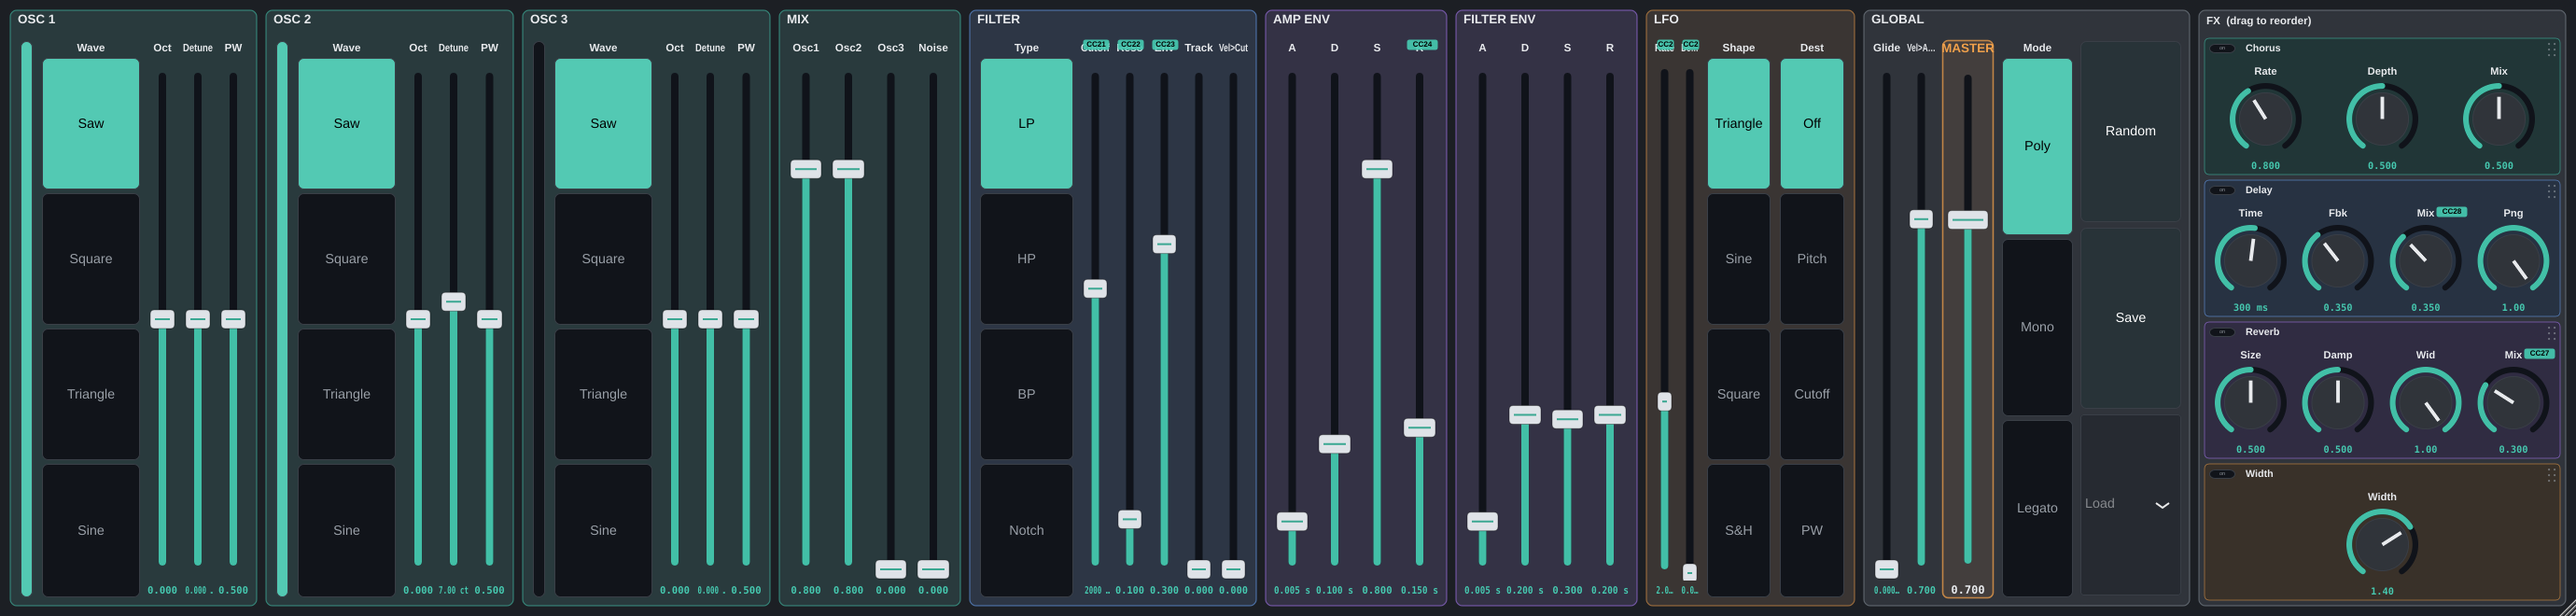
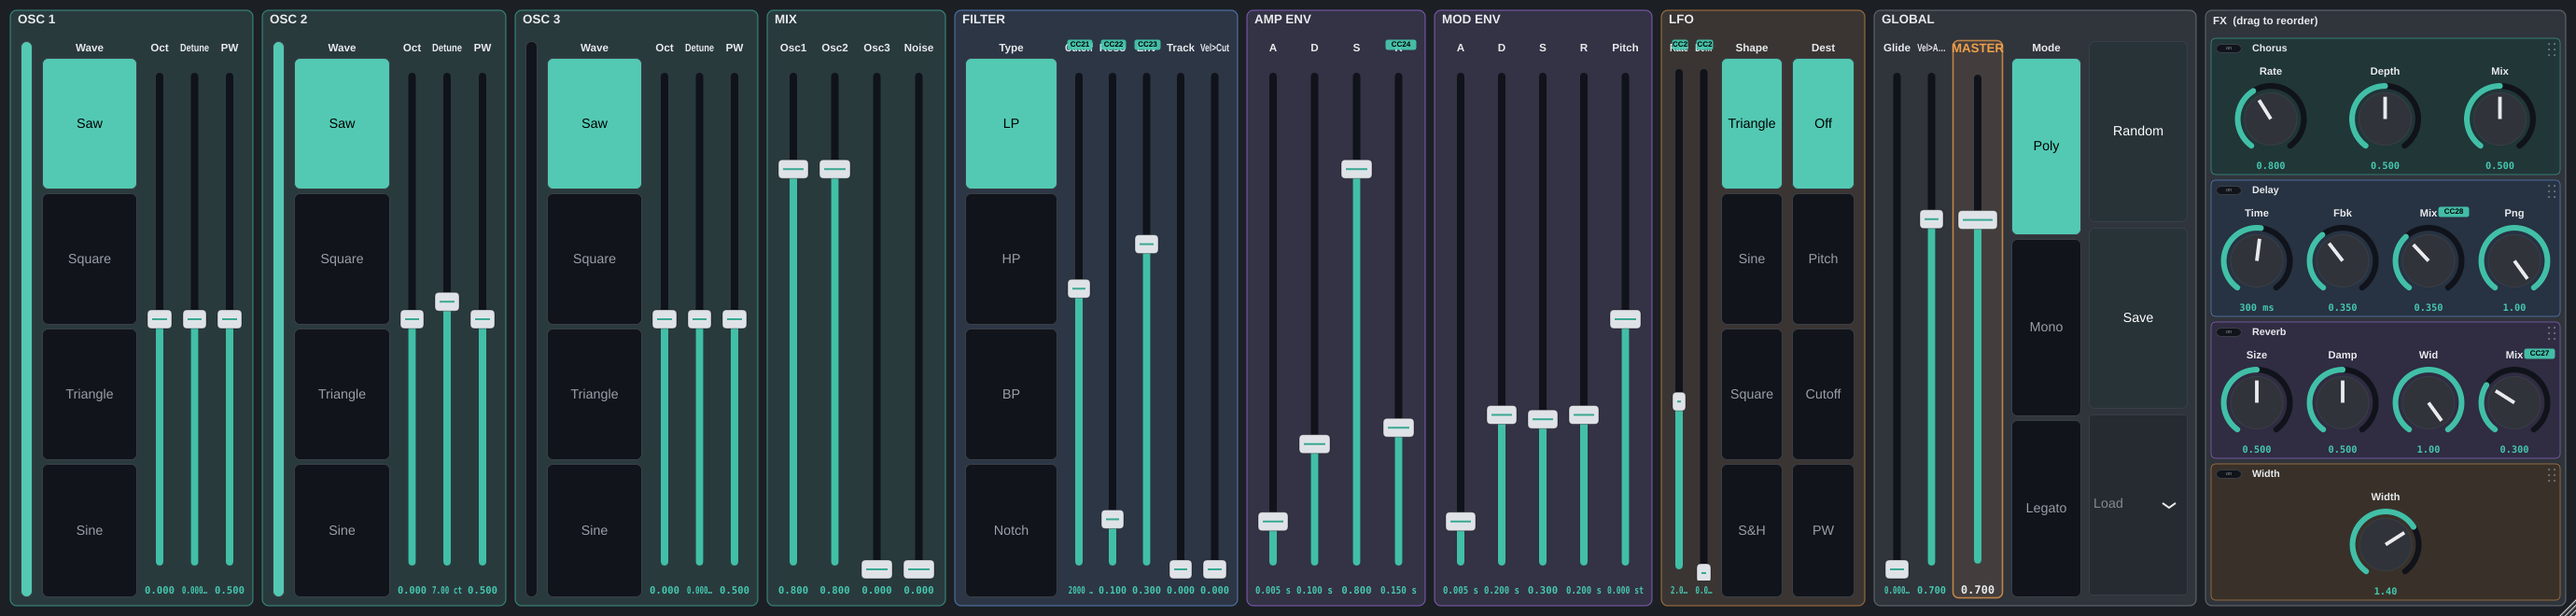
7A: mod-env -> pitch + drum presets
New fltenv_to_pitch parameter (bipolar, -48..+48 st, default 0): the filter/mod
envelope now drives per-voice pitch, summed into the same semitone domain as the LFO
pitch mod. Sampled at control rate (ADSREnvelope::getLevel at each render chunk, so
the env isn't advanced twice) — ~0.33 ms granularity, smooth for a kick's pitch drop.
Default 0 keeps the engine golden bit-identical. The filter-env UI bank is relabeled
MOD ENV with a new Pitch fader (screenshot regenerated).

Six drum presets in a new "Drums" category, all built on the pitch-env drop: Kick 808
(sine, +22 st over ~55 ms, long boom, dry), Kick Punchy (tighter), Snare (tone+noise
bandpass, +7 st, touch of reverb), Hat Closed (noise-only highpass, ~45 ms), Hat Open
(~400 ms), Tom (+7 st / ~80 ms). Recipes in README + presets.md.

Tests: [envpitch] (env held at +12 = exactly one octave / 880 Hz, decays to the note
pitch, default 0 inert -> golden-safe); [drums] (kick low descending fundamental +
percussive decay, closed hat highpassed + very short); factory count -> 22.

Gate: release 125/125 + pluginval s8; sanitizers ASan+LSan+UBSan + soak green.

diff --git a/tests/plugin/test_drums.cpp b/tests/plugin/test_drums.cpp
@@ -1,0 +1,102 @@
+// ============================================================================
+// 7A drum presets: character checks (load + sound + bounds are covered for ALL
+// presets by test_presets_factory; here we verify the DRUM character specifically).
+//   * Kick: percussive (decays to near-silence) with a low fundamental at the note
+//     an octave down — and env->pitch gives it a descending pitch (onset above tail).
+//   * Closed Hat: highpassed noise (energy concentrated in the highs), very short.
+// FFT/zero-cross helpers come from the DSP test util (on the plugin_tests include path).
+// ============================================================================
+#include <catch2/catch_test_macros.hpp>
+#include "PluginProcessor.h"
+#include "test_util.h"
+#include <vector>
+#include <cmath>
+
+namespace
+{
+    // Render one held note of a factory preset into a mono capture.
+    std::vector<float> renderPreset (VASynthProcessor& p, const juce::String& preset, int note, double seconds)
+    {
+        p.loadFactoryPreset (preset);
+        const int total = (int) (48000.0 * seconds);
+        std::vector<float> mono; mono.reserve ((size_t) total);
+        juce::AudioBuffer<float> buf (2, 256);
+        int done = 0;
+        while (done < total)
+        {
+            const int n = std::min (256, total - done);
+            buf.setSize (2, n, false, false, true); buf.clear();
+            juce::MidiBuffer midi;
+            if (done == 0) midi.addEvent (juce::MidiMessage::noteOn (1, note, 1.0f), 0);
+            p.processBlock (buf, midi);
+            const float* L = buf.getReadPointer (0);
+            for (int i = 0; i < n; ++i) mono.push_back (L[i]);
+            done += n;
+        }
+        return mono;
+    }
+
+    double rmsRange (const std::vector<float>& x, double sr, double t0, double t1)
+    {
+        const int a = (int) (sr * t0), b = std::min ((int) (sr * t1), (int) x.size());
+        double acc = 0.0; int n = 0;
+        for (int i = a; i < b; ++i) { acc += double (x[(size_t) i]) * x[(size_t) i]; ++n; }
+        return n ? std::sqrt (acc / n) : 0.0;
+    }
+}
+
+TEST_CASE ("Kick preset: low descending fundamental, percussive decay", "[plugin][7a][drums][kick]")
+{
+    juce::ScopedJuceInitialiser_GUI juceInit;
+    VASynthProcessor p; p.prepareToPlay (48000.0, 256);
+
+    auto out = renderPreset (p, "Kick 808", 48, 0.5);   // C3; osc octave -1 -> ~C2 (65 Hz)
+    REQUIRE (tu::allFinite (out));
+
+    // Settled fundamental (after the pitch drop) is the low note (~65 Hz).
+    const double settled = tu::zeroCrossHz (out, int (48000 * 0.18), int (48000 * 0.25), 48000.0);
+    INFO ("kick settled fundamental = " << settled << " Hz");
+    REQUIRE (settled > 45.0);
+    REQUIRE (settled < 110.0);                          // clearly a low kick, not the raw note
+
+    // env->pitch: the onset carries clear energy ABOVE the settled fundamental (the
+    // pitch swept down from ~+22 st), while the settled tail is a pure low tone.
+    auto highBandEnergy = [&] (double t0)
+    {
+        const int start = (int) (48000 * t0);
+        std::vector<float> w (2048, 0.0f);
+        for (int i = 0; i < 2048 && start + i < (int) out.size(); ++i) w[(size_t) i] = out[(size_t) (start + i)];
+        auto mag = tu::magnitudeSpectrum (w);
+        const double binHz = 48000.0 / 2048.0;
+        double e = 0.0;
+        for (size_t k = 1; k < mag.size(); ++k) if (k * binHz > 130.0) e += mag[k] * mag[k];
+        return e;
+    };
+    REQUIRE (highBandEnergy (0.0) > highBandEnergy (0.2) * 5.0);   // pitch drop: onset highs >> tail
+
+    // Percussive: the tail is far quieter than the body (amp sustain 0).
+    REQUIRE (rmsRange (out, 48000, 0.0,  0.05) > rmsRange (out, 48000, 0.4, 0.5) * 8.0);
+}
+
+TEST_CASE ("Closed hat preset: highpassed noise, very short", "[plugin][7a][drums][hat]")
+{
+    juce::ScopedJuceInitialiser_GUI juceInit;
+    VASynthProcessor p; p.prepareToPlay (48000.0, 256);
+
+    auto out = renderPreset (p, "Hat Closed", 60, 0.3);
+    REQUIRE (tu::allFinite (out));
+
+    // Spectrum of the onset: energy must sit mostly in the highs (highpass @ ~8.5k).
+    std::vector<float> win (8192, 0.0f);
+    for (int i = 0; i < 8192 && i < (int) out.size(); ++i) win[(size_t) i] = out[(size_t) i];
+    auto mag = tu::magnitudeSpectrum (win);
+    const double binHz = 48000.0 / 8192.0;
+    double low = 0.0, high = 0.0;
+    for (size_t k = 1; k < mag.size(); ++k)
+        (k * binHz < 4000.0 ? low : high) += mag[k] * mag[k];
+    INFO ("hat low(<4k)=" << low << " high(>4k)=" << high);
+    REQUIRE (high > low * 4.0);                          // clearly highpassed
+
+    // Very short: essentially silent by 120 ms.
+    REQUIRE (rmsRange (out, 48000, 0.0, 0.03) > rmsRange (out, 48000, 0.12, 0.3) * 15.0);
+}

diff --git a/tests/dsp/test_engine.cpp b/tests/dsp/test_engine.cpp
@@ -145,6 +145,47 @@ TEST_CASE ("retriggering a held note does not click", "[engine][retrigger]")
     REQUIRE (atEv <= pre + 0.05f);                     // no phase-reset discontinuity
 }
 
+TEST_CASE ("mod env -> pitch: +12 st is an octave, decaying to note pitch", "[engine][7a][envpitch]")
+{
+    auto renderNote = [] (float envToPitch, float fltS, float fltD)
+    {
+        SynthEngine e; e.prepare (kSR);
+        VoiceParams p = sineParams();              // sine osc1, cutoff wide, filterEnvAmt 0
+        p.fltEnvToPitch = envToPitch;
+        p.fltA = 0.001f; p.fltD = fltD; p.fltS = fltS;                 // instant up
+        p.ampA = 0.001f; p.ampD = 0.5f; p.ampS = 0.9f; p.ampR = 0.1f;  // audible throughout
+        e.noteOn (69, 1.0f);                       // A4 = 440 Hz
+        std::vector<float> out (int (kSR * 1.5), 0.0f);
+        e.render (out.data(), (int) out.size(), p, 2.0f, 0, 0.0f, 0);
+        return out;
+    };
+
+    // (1) Env HELD at peak (sustain 1.0): +12 st is exactly one octave -> 880 Hz.
+    {
+        auto out = renderNote (12.0f, 1.0f, 0.001f);
+        const double hz = tu::zeroCrossHz (out, int (kSR * 0.05), int (kSR * 0.25), kSR);
+        INFO ("held +12 -> " << hz << " Hz");
+        REQUIRE (hz == Catch::Approx (880.0).margin (20.0));          // an octave up
+    }
+
+    // (2) Env DECAYS to 0: pitch starts high and settles at the note (440 Hz).
+    {
+        auto out = renderNote (12.0f, 0.0f, 0.12f);
+        const double early = tu::zeroCrossHz (out, int (kSR * 0.005), int (kSR * 0.02), kSR);
+        const double late  = tu::zeroCrossHz (out, int (kSR * 0.8),   int (kSR * 0.6),  kSR);
+        INFO ("decaying early=" << early << " late=" << late);
+        REQUIRE (early > 600.0);                                      // clearly pitched up at onset
+        REQUIRE (late  == Catch::Approx (440.0).margin (10.0));       // lands at note pitch
+    }
+
+    // (3) Default 0 is inert (golden-safe): stays at 440 the whole time.
+    {
+        auto out = renderNote (0.0f, 0.0f, 0.12f);
+        REQUIRE (tu::zeroCrossHz (out, int (kSR * 0.02), int (kSR * 0.4), kSR)
+                 == Catch::Approx (440.0).margin (6.0));
+    }
+}
+
 TEST_CASE ("voice-sum headroom trim scales with the voice cap (1/sqrt(N))", "[engine][bug4][headroom]")
 {
     // The engine applies a fixed 1/sqrt(maxVoices) trim to the summed output so a

diff --git a/Source/DSP/SynthVoice.h b/Source/DSP/SynthVoice.h
@@ -50,6 +50,7 @@ struct VoiceParams
     // envelopes
     float  ampA = 0.005f, ampD = 0.1f, ampS = 0.8f, ampR = 0.15f;
     float  fltA = 0.005f, fltD = 0.2f, fltS = 0.3f, fltR = 0.2f;
+    float  fltEnvToPitch = 0.0f;               // filter/mod env -> pitch, semitones (-48..+48)
 
     // modulation (already computed by engine from LFO + destination routing)
     float  pitchModSemis = 0.0f;               // LFO -> pitch
@@ -142,7 +143,12 @@ public:
             glideNote += (1.0f - std::exp (-(float) numSamples / (p.glideTime * (float) sampleRate)))
                          * ((float) midiNote - glideNote);
 
-        applyParams (p);
+        // Filter/mod envelope -> pitch (control-rate: the env level at this chunk's
+        // start scales the semitone offset, summed into the same pitch-mod domain as
+        // the LFO). Sampled here so we don't advance the env twice; 16-sample chunks
+        // give ~0.33 ms granularity — smooth for a kick's pitch drop. Default 0 -> 0.
+        const float envPitchSemis = p.fltEnvToPitch * fltEnv.getLevel();
+        applyParams (p, envPitchSemis);
 
         const float trackOct = p.keytrack * (midiNote - 60) / 12.0f;
         const float velOct   = p.velToCutoff * velocity * 3.0f;              // vel -> cutoff
@@ -195,10 +201,10 @@ private:
     // Filter-coefficient update interval (power of two for the bit mask).
     static constexpr int kCutoffInterval = 16;
 
-    void applyParams (const VoiceParams& p)
+    void applyParams (const VoiceParams& p, float extraPitchSemis = 0.0f)
     {
-        // Pitch from the (glide-slewed) note plus pitch modulation.
-        const double f0 = 440.0 * std::exp2 ((glideNote - 69.0f + p.pitchModSemis) / 12.0);
+        // Pitch from the (glide-slewed) note plus pitch modulation (LFO + env->pitch).
+        const double f0 = 440.0 * std::exp2 ((glideNote - 69.0f + p.pitchModSemis + extraPitchSemis) / 12.0);
 
         osc1.setWave (static_cast<PolyBlepOscillator::Wave> (p.osc1Wave));
         osc2.setWave (static_cast<PolyBlepOscillator::Wave> (p.osc2Wave));

diff --git a/Source/Parameters.h b/Source/Parameters.h
@@ -70,6 +70,7 @@ namespace ParamID
     inline constexpr auto fltDecay    = "flt_decay";
     inline constexpr auto fltSustain  = "flt_sustain";
     inline constexpr auto fltRelease  = "flt_release";
+    inline constexpr auto fltEnvToPitch = "fltenv_to_pitch";  // mod env -> pitch, semitones
 
     // LFO 1 (global). v1: routed to a single selectable destination.
     inline constexpr auto lfoRate     = "lfo_rate";
@@ -173,6 +174,7 @@ inline juce::AudioProcessorValueTreeState::ParameterLayout createParameterLayout
     params.push_back(std::make_unique<P>(juce::ParameterID{ID::fltDecay, 1},   "Flt Decay",   timeRange, 0.2f, juce::AudioParameterFloatAttributes().withLabel ("s")));
     params.push_back(std::make_unique<P>(juce::ParameterID{ID::fltSustain, 1}, "Flt Sustain", juce::NormalisableRange<float>(0.0f, 1.0f), 0.3f));
     params.push_back(std::make_unique<P>(juce::ParameterID{ID::fltRelease, 1}, "Flt Release", timeRange, 0.2f, juce::AudioParameterFloatAttributes().withLabel ("s")));
+    params.push_back(std::make_unique<P>(juce::ParameterID{ID::fltEnvToPitch, 1}, "Mod Env->Pitch", juce::NormalisableRange<float>(-48.0f, 48.0f), 0.0f, juce::AudioParameterFloatAttributes().withLabel ("st")));
 
     // --- LFO -----------------------------------------------------------------
     params.push_back(std::make_unique<P >(juce::ParameterID{ID::lfoRate, 1},  "LFO Rate", juce::NormalisableRange<float>(0.01f, 30.0f, 0.0f, 0.4f), 2.0f, juce::AudioParameterFloatAttributes().withLabel ("Hz")));

diff --git a/tests/plugin/test_presets_factory.cpp b/tests/plugin/test_presets_factory.cpp
@@ -31,13 +31,13 @@ namespace
     }
 }
 
-TEST_CASE ("factory library has 16 presets spanning the categories", "[plugin][6d][presets]")
+TEST_CASE ("factory library has the expected presets spanning the categories", "[plugin][6d][presets]")
 {
     juce::ScopedJuceInitialiser_GUI juceInit;
     VASynthProcessor p;
     const auto& lib = p.factoryPresetLibrary();
 
-    REQUIRE (lib.size() == 16);
+    REQUIRE (lib.size() == 22);        // 16 tonal + 6 drums (7A)
     for (auto& fp : lib.all())
     {
         REQUIRE (fp.name.isNotEmpty());
@@ -45,7 +45,7 @@ TEST_CASE ("factory library has 16 presets spanning the categories", "[plugin][6
     }
 
     auto cats = lib.categories();
-    for (auto* expected : { "Bass", "Lead", "Keys", "Pad", "Pluck", "Brass", "Strings", "Winds", "Organ", "FX" })
+    for (auto* expected : { "Bass", "Lead", "Keys", "Pad", "Pluck", "Brass", "Strings", "Winds", "Organ", "FX", "Drums" })
         REQUIRE (cats.contains (expected));
 }
 

diff --git a/Source/PluginEditor.h b/Source/PluginEditor.h
@@ -221,9 +221,10 @@ private:
           addFader (s, ID::ampAttack, "A"); addFader (s, ID::ampDecay, "D");
           addFader (s, ID::ampSustain, "S"); addFader (s, ID::ampRelease, "R"); }
 
-        { auto& s = addSection ("Filter Env", tEnv, 1.4f);
+        { auto& s = addSection ("Mod Env", tEnv, 1.7f);   // filter env, now also -> pitch
           addFader (s, ID::fltAttack, "A"); addFader (s, ID::fltDecay, "D");
-          addFader (s, ID::fltSustain, "S"); addFader (s, ID::fltRelease, "R"); }
+          addFader (s, ID::fltSustain, "S"); addFader (s, ID::fltRelease, "R");
+          addFader (s, ID::fltEnvToPitch, "Pitch"); }
 
         { auto& s = addSection ("LFO", tLfo, 1.6f);
           addFader (s, ID::lfoRate, "Rate"); addFader (s, ID::lfoDepth, "Depth");

diff --git a/Source/DSP/ADSREnvelope.h b/Source/DSP/ADSREnvelope.h
@@ -65,6 +65,10 @@ public:
 
     bool isActive() const { return stage != Stage::Idle; }
 
+    // Current level WITHOUT advancing — for control-rate modulation targets (e.g.
+    // filter-envelope -> pitch) sampled once per render chunk.
+    float getLevel() const { return static_cast<float> (level); }
+
     float nextSample()
     {
         switch (stage)

diff --git a/Source/PluginProcessor.cpp b/Source/PluginProcessor.cpp
@@ -209,6 +209,7 @@ VoiceParams VASynthProcessor::snapshotParams() const
     p.fltD = rp (apvts, ID::fltDecay);
     p.fltS = rp (apvts, ID::fltSustain);
     p.fltR = rp (apvts, ID::fltRelease);
+    p.fltEnvToPitch = rp (apvts, ID::fltEnvToPitch);
 
     p.glideTime = rp (apvts, ID::glideTime);
 

diff --git a/docs/phase8-status.md b/docs/phase8-status.md
@@ -91,7 +91,28 @@ focus loss-regain" — for BOTH QWERTY and MIDI controllers (user clarified: any
   set logic, preset-switch keeps play path). Real focus/device behaviour → hands-on.
 - Gate: release 121/121 + pluginval s8 green; sanitizers green. Committed locally.
 
-### 7A / 7B / 7C — not started (next, in order, each gated + paused)
+### Pre-7A polish (user-requested) — DONE, committed
+- master_gain excluded from all preset ops (Init/factory/user load + save) — it's a
+  performance control the player owns (`PresetPolicy` in Parameters.h). `08e24ca`.
+- Factory loudness pass: hot sustained patches (Dark Drone, Full Organ, Square Lead,
+  Reese Bass) trimmed via osc levels to ~-33 dBFS RMS; sustained set now within ~4 dB.
+  Percussive/evolving patches (Pluck, Bell, Riser, E-Piano) deliberately left (RMS is
+  the wrong metric). `9e23da4`. NOTE: user may still want Dark Drone restored to
+  "biggest" and/or E-Piano nudged up — open for their ear.
+
+### 7A — env→pitch + drums — DONE (gate in progress), then PAUSE
+- New `fltenv_to_pitch` param (±48 st, default 0): the filter/mod env drives pitch
+  (summed with LFO pitch mod in SynthVoice; control-rate via `ADSREnvelope::getLevel`).
+  Default 0 → engine golden bit-identical. Filter-Env UI bank relabeled **MOD ENV** +
+  a Pitch fader (screenshot regenerated).
+- 6 drum presets (new **Drums** category): Kick 808 / Kick Punchy / Snare / Hat Closed
+  / Hat Open / Tom, all using the pitch-env drop. Recipes in presets.md + README.
+- Tests: `[envpitch]` (held +12 = 880 Hz octave, decays to note; default 0 inert),
+  `[drums]` (kick low+descending+percussive, hat highpassed+short), factory count → 22.
+- Gate: release 125/125 + pluginval s8, sanitizer ASan+LSan+UBSan + soak — all green.
+  Committed locally; PAUSED for user review before 7B.
+
+### 7B / 7C — not started (next, in order, each gated + paused)
 
 ## 8B–8F — not started (blocked on Phase 7)
 

diff --git a/docs/presets.md b/docs/presets.md
@@ -29,6 +29,25 @@ pick the same one again.
 | Winds   | Soft Flute |
 | Organ   | Full Organ |
 | FX      | Noise Riser, Dark Drone |
+| Drums   | Kick 808, Kick Punchy, Snare, Hat Closed, Hat Open, Tom |
+
+### Drum recipes (7A)
+
+The drums use the **Mod Env → Pitch** route (a filter/mod-envelope that also drives
+pitch): an instant-attack env sweeps the pitch down over the hit, then the amp
+decays percussively (sustain 0). Play them low (a kick sits about an octave below
+the note). Recipes:
+
+| Drum | Sound |
+|---|---|
+| Kick 808 | sine, +22 st pitch drop over ~55 ms, long 0.38 s boom, dry |
+| Kick Punchy | tighter: +18 st over ~28 ms, short 0.16 s body |
+| Snare | sine tone + noise through a bandpass, +7 st drop, ~150 ms, a touch of reverb |
+| Hat Closed | noise only (oscs off), highpass ~8.5 kHz, ~45 ms |
+| Hat Open | same, ~400 ms |
+| Tom | sine, +7 st / ~80 ms drop, ~260 ms decay |
+
+Full simultaneous **kits** arrive with 7C parts (pads on a locked drum part).
 
 Factory presets are **read-only** — embedded in the binary, never overwritten.
 Tweak one and hit **Save** to keep your version as a user preset (a copy); the

diff --git a/README.md b/README.md
@@ -19,7 +19,9 @@ a general-purpose synth that runs in any VST3 host or standalone.
   with a selectable Efficient/HQ quality-vs-CPU tradeoff, per-osc level + kill switch.
 - **TPT state-variable filter** (LP/HP/BP/Notch), resonant and stable, with velocity
   and keytrack routing.
-- **Two exponential ADSR envelopes** (amp + filter), click-free retrigger and steal.
+- **Two exponential ADSR envelopes** (amp + **mod env**), click-free retrigger and
+  steal. The mod env drives the filter *and* **pitch** (`fltenv_to_pitch`, ±48 st) —
+  the basis of the **drum** presets (808/punchy kicks, snare, hats, tom).
 - **Global LFO** (tri/sine/square/S&H) → pitch / cutoff / PW, plus pitch-bend,
   mod-wheel vibrato, and sustain-pedal handling.
 - **Reorderable stereo FX**: chorus, ping-pong delay, Freeverb-style reverb, mid/side
